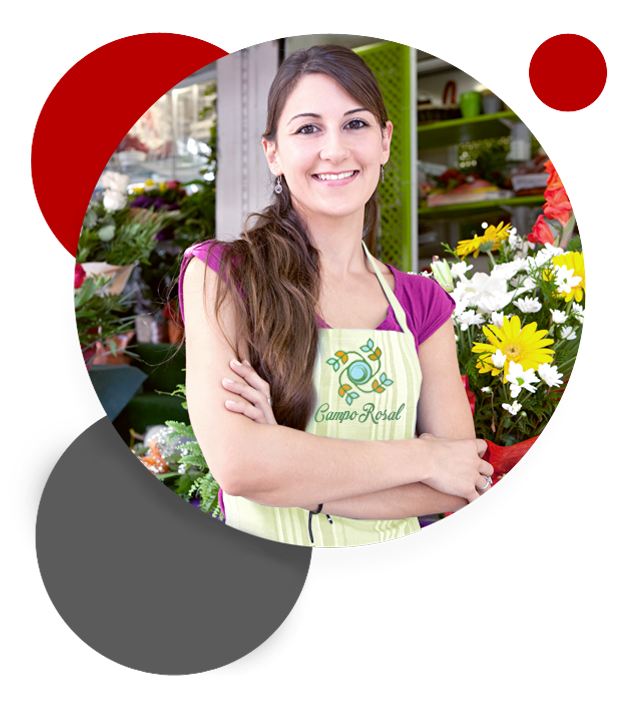
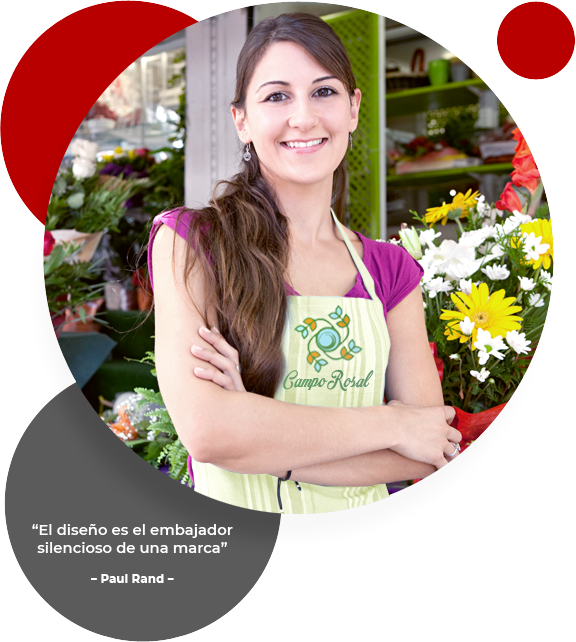
Cambios de imagenes

diff --git a/src/store/services.js b/src/store/services.js
@@ -34,12 +34,12 @@ export const state = () => ({
       name: 'Web y App',
       layouts: [],
       carousel: [
-        { src: 'images/pages/nuestros-servicios/web-y-app/app-pio-chicken-servicios.png' },
+        { src: 'images/pages/nuestros-servicios/web-y-app/ULTIMOO.png' },
+        { src: 'images/pages/nuestros-servicios/web-y-app/ULKIRA.png' },
+        { src: 'images/pages/nuestros-servicios/web-y-app/TONI_LINAS.png' },
+        { src: 'images/pages/nuestros-servicios/web-y-app/mockup.png' },
         { src: 'images/pages/nuestros-servicios/web-y-app/Logo-Web-Ecommerce.png' },
-        { src: 'images/pages/nuestros-servicios/web-y-app/Landing.png' },
-        { src: 'images/pages/nuestros-servicios/web-y-app/Presencia-Web.png' },
-        { src: 'images/pages/nuestros-servicios/web-y-app/Web-Profesional.png' },
-        { src: 'images/pages/nuestros-servicios/web-y-app/Ecommerce.png' }
+        { src: 'images/pages/nuestros-servicios/web-y-app/app.png' }
       ],
       rows: [
         [
@@ -61,10 +61,10 @@ export const state = () => ({
       name: 'Folletos y Publicidades',
       layouts: [],
       carousel: [
-        { src: 'images/pages/nuestros-servicios/folletos/Slider-catálogo-compressor.png' },
-        { src: 'images/pages/nuestros-servicios/folletos/Slider-diptico-compressor.png' },
-        { src: 'images/pages/nuestros-servicios/folletos/Slider-Flyer-compressor.png' },
-        { src: 'images/pages/nuestros-servicios/folletos/Slider-tríptico-compressor.png' }
+        { src: 'images/pages/nuestros-servicios/folletos/Bellek.png' },
+        { src: 'images/pages/nuestros-servicios/folletos/OLIVEROS.png' },
+        { src: 'images/pages/nuestros-servicios/folletos/ROCABIKE.png' },
+        { src: 'images/pages/nuestros-servicios/folletos/Terraagro.png' }
       ],
       rows: [
         [
@@ -105,9 +105,10 @@ export const state = () => ({
         { src: 'images/pages/nuestros-servicios/rotulos/banner-dual.png' },
         { src: 'images/pages/nuestros-servicios/rotulos/empaque-vannamei.png' },
         { src: 'images/pages/nuestros-servicios/rotulos/gps-serville-tour.png' },
-        { src: 'images/pages/nuestros-servicios/rotulos/Rotulo-vestimenta.png' },
+        { src: 'images/pages/nuestros-servicios/rotulos/Altacordillera.jpg' },
         { src: 'images/pages/nuestros-servicios/rotulos/rotulo-ibinatural.png' },
-        { src: 'images/pages/nuestros-servicios/rotulos/rotulo-smart-escolar.png' }
+        { src: 'images/pages/nuestros-servicios/rotulos/Remera_Movil_Market.png' },
+        { src: 'images/pages/nuestros-servicios/rotulos/Ex_opc.png' }
       ]
     },
     {
@@ -121,11 +122,11 @@ export const state = () => ({
       ],
       layouts: [],
       carousel: [
-        { src: 'images/pages/nuestros-servicios/perfiles-de-redes-sociales/Slider-VM-Look.png' },
-        { src: 'images/pages/nuestros-servicios/perfiles-de-redes-sociales/Slider-La-Kikis.png' },
-        { src: 'images/pages/nuestros-servicios/perfiles-de-redes-sociales/redes-sinergia-servicios.png' },
-        { src: 'images/pages/nuestros-servicios/perfiles-de-redes-sociales/redes-marsanz-servicios.png' }
-
+        { src: 'images/pages/nuestros-servicios/perfiles-de-redes-sociales/SANIDAERRSS.png' },
+        { src: 'images/pages/nuestros-servicios/perfiles-de-redes-sociales/Alpha_mockup.png' },
+        { src: 'images/pages/nuestros-servicios/perfiles-de-redes-sociales/MOCKUP.png' },
+        { src: 'images/pages/nuestros-servicios/perfiles-de-redes-sociales/MockupArete.png' },
+        { src: 'images/pages/nuestros-servicios/perfiles-de-redes-sociales/UrkiraRRSS.png' }
       ],
       noBorder: true
     }

diff --git a/src/components/Forms/AppContactForm.vue b/src/components/Forms/AppContactForm.vue
@@ -42,10 +42,10 @@
             </v-flex>
             <v-layout xs12 md4 row wrap justify-center class="mt-2 mb-0">
               <v-flex xs12 md6>
-                <v-radio key="type_user_false" label="Si" value="agencia" class="mt-0"></v-radio>
+                <v-radio key="type_user_false" label="Si" value="true" class="mt-0"></v-radio>
               </v-flex>
               <v-flex xs12 md6 >
-                <v-radio key="type_user_true" label="No" value="revendedor" class="mt-0"></v-radio>
+                <v-radio key="type_user_true" label="No" value="false" class="mt-0"></v-radio>
               </v-flex>
             </v-layout>
           </v-radio-group>
@@ -101,6 +101,9 @@
     props: {
       contactPage: {
         default: false
+      },
+      page: {
+        default: 'inicio'
       }
     },
     data () {
@@ -109,7 +112,7 @@
         email: '',
         message: '',
         phone: '',
-        type_user: 'revendedor',
+        type_user: false,
         category: '',
         offers: false,
         time: '9am a 14hs – Dia de semana',
@@ -135,7 +138,10 @@
           var contact = {
             name: this.name,
             email: this.email,
-            message: this.message
+            message: this.message,
+            page_view: this.category.name || this.page,
+            promo: this.offers,
+            reseller: this.type_user || false
           }
 
           if (this.for_phone) {
@@ -160,8 +166,13 @@
             contact.source = utmSource
           }
 
-          if (process.browser) {
-            window.grecaptcha.ready(() => {
+          this.$store.dispatch('user/contactForm', contact).then((res) => {
+            console.log(res)
+            this.$router.push('/gracias?por=contacto')
+          })
+
+          /* if (process.browser) {
+             window.grecaptcha.ready(() => {
               let secret = '6Lf1944UAAAAAHmlC7K-rhNxkaSs1_qbLU7hIdaH'
               window.grecaptcha.execute(secret, { action: 'SiteWiew' }).then((token) => {
                 let response = {
@@ -172,17 +183,12 @@
                 this.$axios.post('https://www.google.com/recaptcha/api/siteverify', response).then((res) => {
                   console.log('grecaptcha', res)
 
-                  this.$store.dispatch('user/contactForm', contact).then((res) => {
-                    console.log(res)
-
-                    this.$router.push('/gracias?por=contacto')
-                  })
                 }).catch((err) => {
                   console.log(err)
                 })
               })
             })
-          }
+          } */
         })
       }
     }

diff --git a/src/store/data-app/services/logo-empresa.js b/src/store/data-app/services/logo-empresa.js
@@ -230,12 +230,19 @@ export const logoEmpresa = {
   ],
   carousel: {
     items1: [
+      { img: '/images/services-carousel/logo/Ategory.jpg' },
+      { img: '/images/services-carousel/logo/Bellek.jpg' },
+      { img: '/images/services-carousel/logo/Gorriz y Liberos.jpg' },
+      { img: '/images/services-carousel/logo/Hotel.jpg' },
+      { img: '/images/services-carousel/logo/Islas Canarias Air.jpg' },
+      { img: '/images/services-carousel/logo/Omkel.jpg' },
+      { img: '/images/services-carousel/logo/StemMedic.jpg' },
       { img: '/images/services-carousel/logo/6S Ropa Laboral.jpg' },
       { img: '/images/services-carousel/logo/Andes Facility.jpg' },
       { img: '/images/services-carousel/logo/Caromax.jpg' },
       { img: '/images/services-carousel/logo/Colchonería El Cairo.jpg' },
       { img: '/images/services-carousel/logo/Divino Alchemy.jpg' },
-      { img: '/images/services-carousel/logo/Enxenia.jpg' },
+      /*    { img: '/images/services-carousel/logo/Enxenia.jpg' },
       { img: '/images/services-carousel/logo/Finanpay.png' },
       { img: '/images/services-carousel/logo/Gestinem.jpg' },
       { img: '/images/services-carousel/logo/Gorriz-&-Líberos.png' },
@@ -243,7 +250,7 @@ export const logoEmpresa = {
       { img: '/images/services-carousel/logo/Ocean Rov.jpg' },
       { img: '/images/services-carousel/logo/Probelleza.jpg' },
       { img: '/images/services-carousel/logo/Reto 60 Dias by Ivan Perujo.jpg' },
-      { img: '/images/services-carousel/logo/Williams & Perkins.jpg' },
+      { img: '/images/services-carousel/logo/Williams & Perkins.jpg' }, */
       { img: '/images/services-carousel/logo/1.-new-cool.jpg' },
       { img: '/images/services-carousel/logo/2.-chikas.jpg' },
       { img: '/images/services-carousel/logo/3.-family-tv.jpg' },

diff --git a/src/store/data-app/services/rediseno-de-logo.js b/src/store/data-app/services/rediseno-de-logo.js
@@ -159,24 +159,32 @@ export const redisenoLogo = {
   }],
   topSlider: [
     {
-      url: '/images/pages/rediseno-de-logo/rediseno-acc-group.png',
-      color: '#15427D'
+      url: '/images/pages/rediseno-de-logo/1-rediseno-al.jpg',
+      color: '#50A9B6'
     },
     {
-      url: '/images/pages/rediseno-de-logo/rediseno-arquitectura-sin-limites.png',
-      color: '#BA2700'
+      url: '/images/pages/rediseno-de-logo/2-rediseno-alpha.jpg',
+      color: '#871E17'
     },
     {
-      url: '/images/pages/rediseno-de-logo/rediseno-ferreteria-flores.png',
-      color: '#F89422'
+      url: '/images/pages/rediseno-de-logo/3-rediseno-arq.jpg',
+      color: '#DF3021'
     },
     {
-      url: '/images/pages/rediseno-de-logo/rediseno-infriman.png',
-      color: '#F2591D'
+      url: '/images/pages/rediseno-de-logo/4-rediseno-xjr.jpg',
+      color: '#D9330C'
     },
     {
-      url: '/images/pages/rediseno-de-logo/rediseno-salgado.png',
+      url: '/images/pages/rediseno-de-logo/5-rediseno-ga.jpg',
       color: '#3FB13F'
+    },
+    {
+      url: '/images/pages/rediseno-de-logo/6-rediseno-afm.jpg',
+      color: '#BC1F26'
+    },
+    {
+      url: '/images/pages/rediseno-de-logo/7-rediseno-sistole.jpg',
+      color: '#EB981B'
     }
   ],
   creativeProcess: [

diff --git a/src/store/data-app/services/pagina-web.js b/src/store/data-app/services/pagina-web.js
@@ -108,20 +108,32 @@ export const web = {
   }],
   topSlider: [
     {
-      url: '/images/pages/pagina-web/web-ahl.png',
-      color: '#F6C312'
+      url: '/images/pages/pagina-web/Dual.png',
+      color: '#000000'
     },
     {
-      url: '/images/pages/pagina-web/web-fdrd.png',
-      color: '#C72228'
+      url: '/images/pages/pagina-web/Grupo_oliveros.png',
+      color: '#312A70'
     },
     {
-      url: '/images/pages/pagina-web/web-fauna.png',
-      color: '#00A9D4'
+      url: '/images/pages/pagina-web/HL_FENIX.png',
+      color: '#EB981B'
     },
     {
-      url: '/images/pages/pagina-web/web-mudanzas.png',
-      color: '#3DAE60'
+      url: '/images/pages/pagina-web/Toni_Llinas.png',
+      color: '#EB981B'
+    },
+    {
+      url: '/images/pages/pagina-web/Ulkira.png',
+      color: '#AF0216'
+    },
+    {
+      url: '/images/pages/pagina-web/Ultimoo.png',
+      color: '#1D191A'
+    },
+    {
+      url: '/images/pages/pagina-web/Vincit.png',
+      color: '#F19129'
     }
   ],
   creativeProcess: [

diff --git a/src/store/data-app/services/desarrollo-de-app.js b/src/store/data-app/services/desarrollo-de-app.js
@@ -56,24 +56,24 @@ export const disenoApp = {
   topSliderHeight: '590px',
   topSlider: [
     {
-      url: '/images/pages/app/pio-chicken-app.png',
+      url: '/images/pages/app/Rocabike.png',
+      color: '#c8171f'
+    },
+    {
+      url: '/images/pages/app/APP_EXTREMATURE.png',
       color: '#7FC670'
     },
     {
-      url: '/images/pages/app/divino-alchemy-app.png',
-      color: '#C8171F'
+      url: '/images/pages/app/HOTEL.png',
+      color: '#003995'
     },
     {
-      url: '/images/pages/app/d-licores-app.png',
-      color: '#362400'
+      url: '/images/pages/app/Movil_Markrt.png',
+      color: '#003995'
     },
     {
-      url: '/images/pages/app/la-julia-app.png',
-      color: '#362400'
-    },
-    {
-      url: '/images/pages/app/univiajes-express-app.png',
-      color: '#0F283D'
+      url: '/images/pages/app/univiajes-express-app.jpg',
+      color: '#7FC670'
     }
   ],
   creativeProcess: [

diff --git a/src/store/data-app/services/publicidad.js b/src/store/data-app/services/publicidad.js
@@ -178,7 +178,9 @@ export const publicidad = {
   ],
   carousel: {
     items1: [
-      { img: '/images/services-carousel/flyer/53.-slider-flyer-compressor -min.jpg' },
+      { img: '/images/services-carousel/publicidad/ALMAZARA_MOCK.jpg' },
+      { img: '/images/services-carousel/publicidad/CAROLMOCKUP.jpg' },
+      { img: '/images/services-carousel/publicidad/univiajesmockup.jpg' },
       { img: '/images/services-carousel/flyer/56.-compubot -min.jpg' },
       { img: '/images/services-carousel/flyer/asetys - flyer -min.jpg' },
       { img: '/images/services-carousel/flyer/business credit - flyer -min.jpg' },

diff --git a/src/store/data-app/services/rotulo-furgoneta-camion.js b/src/store/data-app/services/rotulo-furgoneta-camion.js
@@ -36,7 +36,7 @@ export const rFurgoneta = {
     }
   ],
   whatYouGet: {
-    img: '/images/pages/rotulo-vehicular/rotulo-vehicular-arquero-romero.png',
+    img: '/images/pages/rotulo-vehicular/rotulo-furgoneta-alpha-circus.png',
     color: '#084c86',
     columns: [
       [
@@ -112,7 +112,7 @@ export const rFurgoneta = {
       color: '#6ebd46'
     },
     {
-      url: '/images/pages/rotulo-furgoneta/rotulo-furgoneta-araucaria.png',
+      url: '/images/pages/rotulo-furgoneta/Olarte SL.png',
       color: '#2763a1'
     },
     {

diff --git a/src/pages/precios.vue b/src/pages/precios.vue
@@ -51,7 +51,7 @@
         <v-flex md6 class="my-5">
           <AppHeading style="color: #303032;" class="font-weight-bold mb-3 text-uppercase text-xs-center" number="2" size="display-1" title="¿TIENES ALGUNA DUDA?" />
           <h4 class="font-weight-medium mb-4 text-uppercase text-xs-center theme--light v-label">Consulta GRATIS a nuestros expertos:</h4>
-          <AppContactForm />
+          <AppContactForm page="precios" />
         </v-flex>
       </v-layout>
     </v-container>

diff --git a/src/store/data-app/services/logo-y-pagina-web.js b/src/store/data-app/services/logo-y-pagina-web.js
@@ -216,6 +216,7 @@ export const logoWeb = {
       { img: '/images/services-carousel/logo-y-web/barna-students-logo-y-sitio-web.jpg' },
       { img: '/images/services-carousel/logo-y-web/todo-ok-logo-y-sitio-web.jpg' },
       { img: '/images/services-carousel/logo-y-web/vincit-logo-y-sitio-web.jpg' },
+      { img: '/images/services-carousel/logo-y-web/Carroucel.jpg' },
       { img: '/images/services-carousel/logo-y-web/arquitectura-logo-y-sitio-web.jpg' }
     ]
   },

diff --git a/src/components/Carousels/AppHomeCarousel.vue b/src/components/Carousels/AppHomeCarousel.vue
@@ -7,10 +7,10 @@
           <div id="hc-layer-3-item-1">
               <v-img :alt="alt" class="animate-img" src="images/carousels/embajador-de-la-marca.png"></v-img>
           </div>
-          <div  id="hc-layer-4-item-1">
+         <!--  <div  id="hc-layer-4-item-1">
             <h2>"El diseño es el embajador silencioso de una marca" </h2>
             <h5>- Paul Rand -</h5>
-          </div>
+          </div> -->
         </div>
 
         <div class="section">

diff --git a/src/pages/ejemplo/_servicio/_slug.vue b/src/pages/ejemplo/_servicio/_slug.vue
@@ -92,7 +92,7 @@
         </v-flex>
         <v-flex xs12 md6 class="mt-5 xs-mt-0">
           <h2 class="display-2 font-weight-bold mb-4 text-uppercase text-xs-center" style=" color: #434343;">¿TIENES ALGUNA DUDA?</h2>
-          <AppContactForm />
+          <AppContactForm :page="'ejemplo portfolio ' + portfolio.name" />
         </v-flex>
       </v-layout>
     </v-container>
